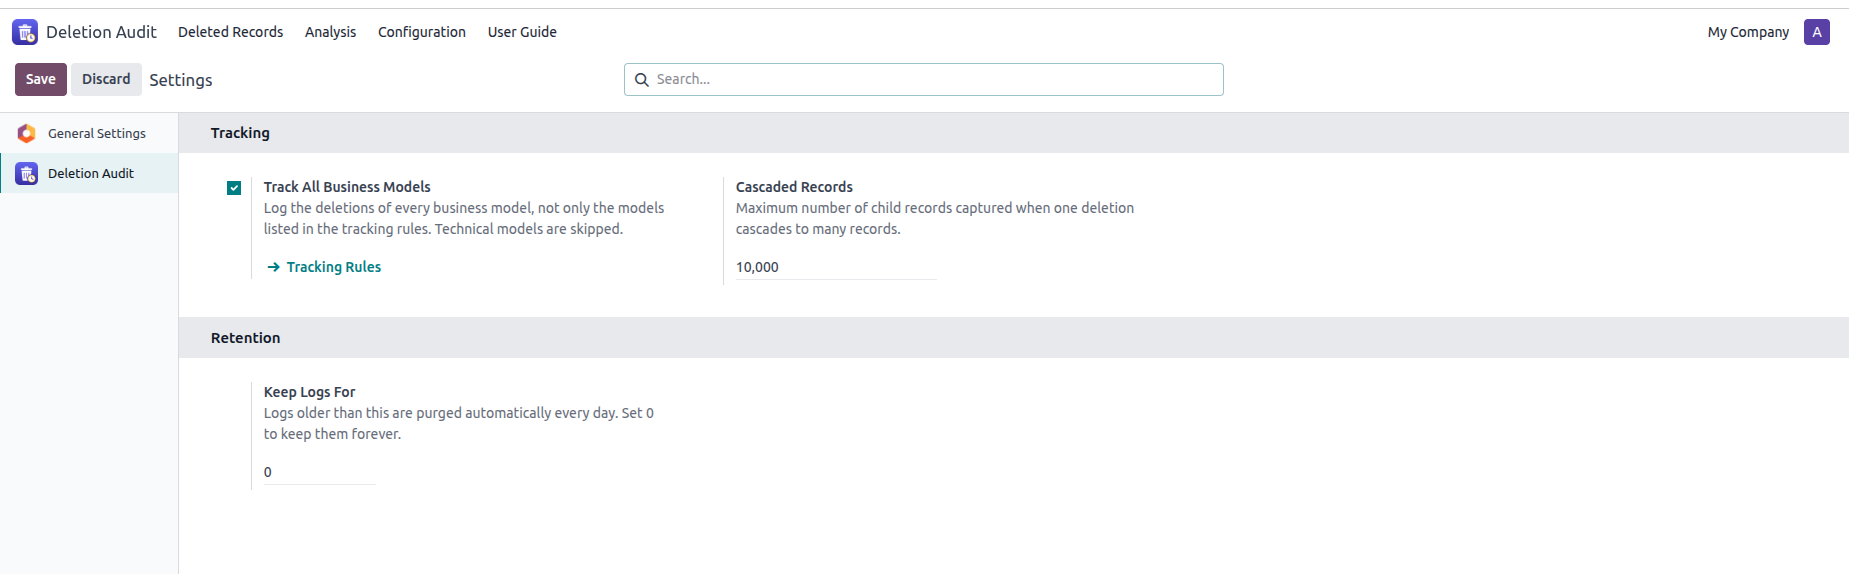
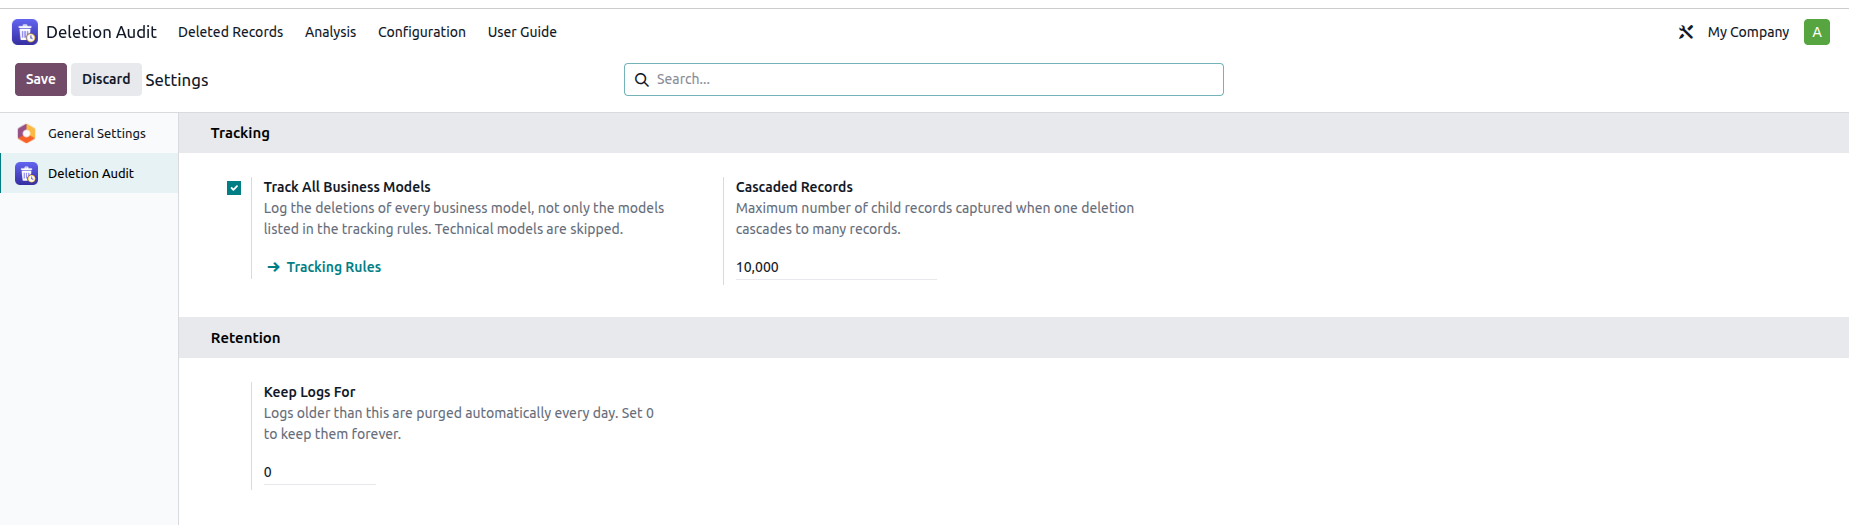
[IMP] mrz_deletion_audit: screenshots taken on Odoo 19
The page was showing Odoo 18 screens. Odoo 19 restyled the backend, so a
buyer on 19 was looking at an interface that is not theirs.

The list of deleted records is on this page too, as on the 15.0 branch.

diff --git a/mrz_deletion_audit/static/description/index.html b/mrz_deletion_audit/static/description/index.html
@@ -104,6 +104,16 @@
         </div>
     </div>
 
+    <!-- The log -->
+    <div class="row pb-4">
+        <div class="col-12">
+            <img src="screenshot_list.png" alt="The list of deleted records"
+                 class="w-100 border rounded"/>
+            <p class="text-muted mt-2 mb-0">Every deletion in one list: when, by whom, which document,
+                from where, and how many records went with it.</p>
+        </div>
+    </div>
+
     <!-- Configuration -->
     <div class="row g-4 pb-4">
         <div class="col-md-6">
